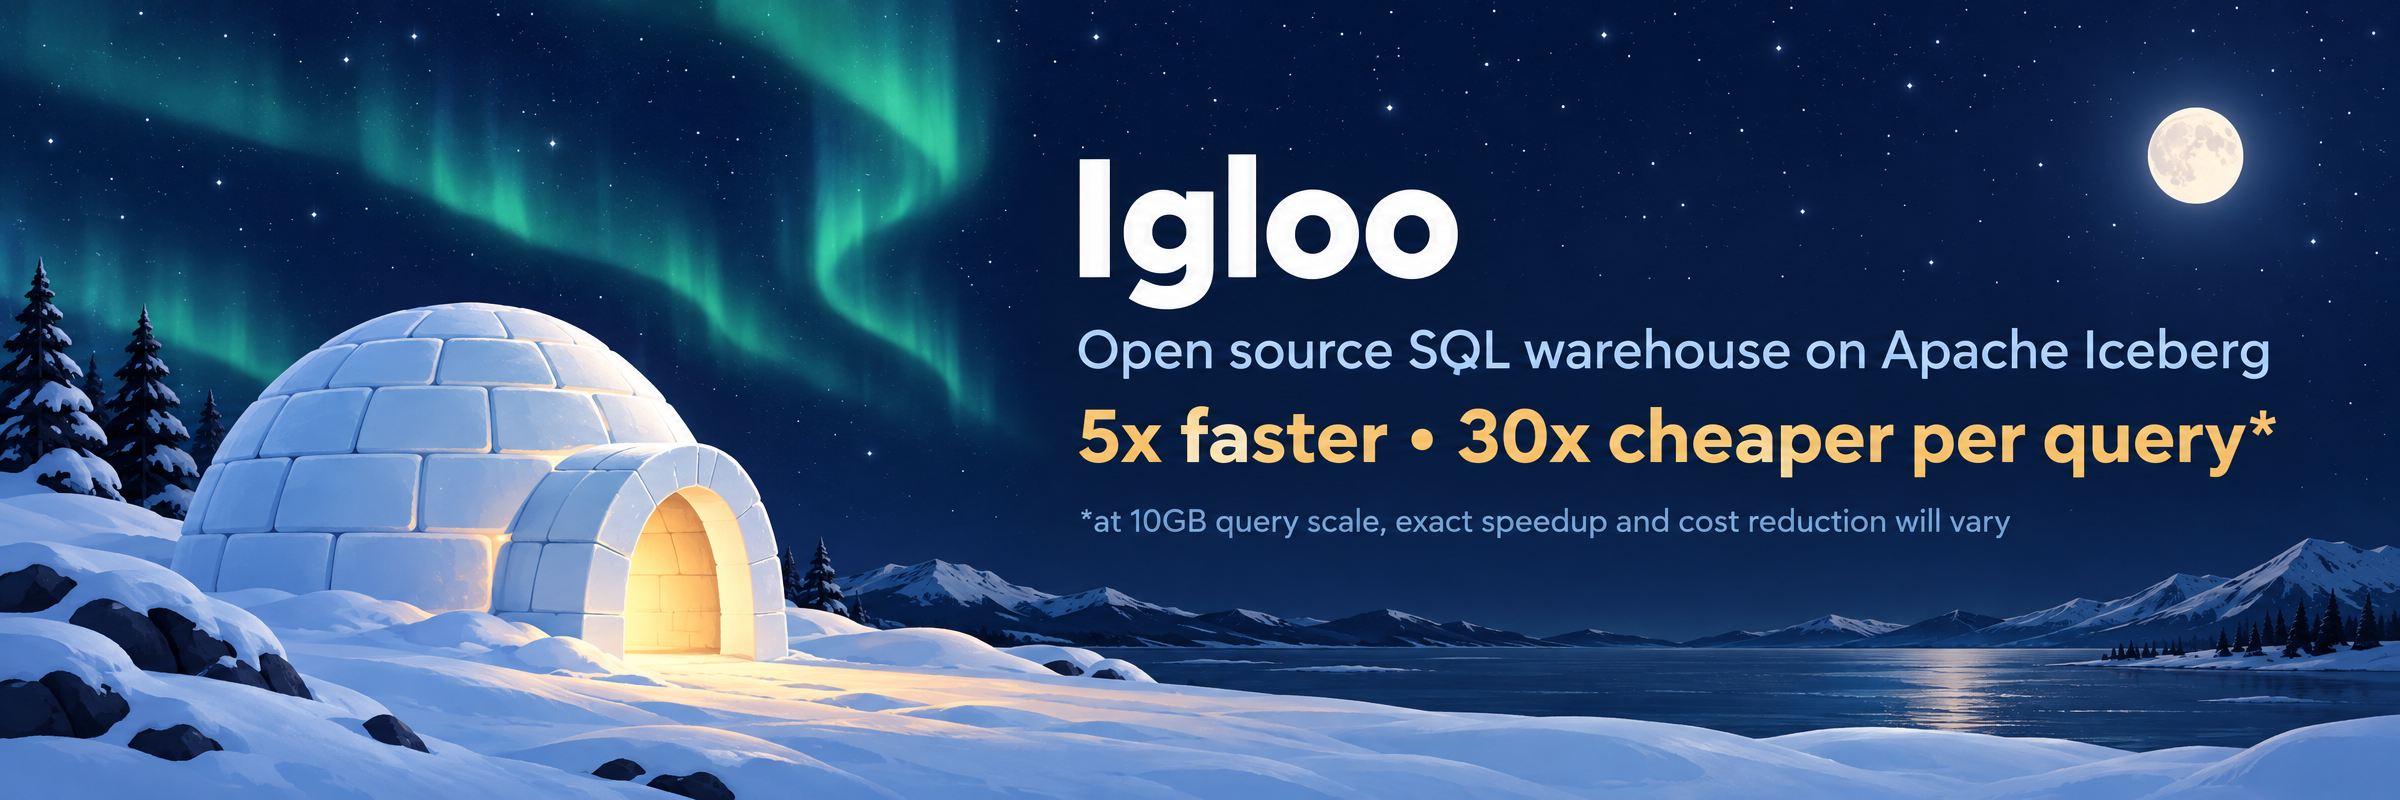
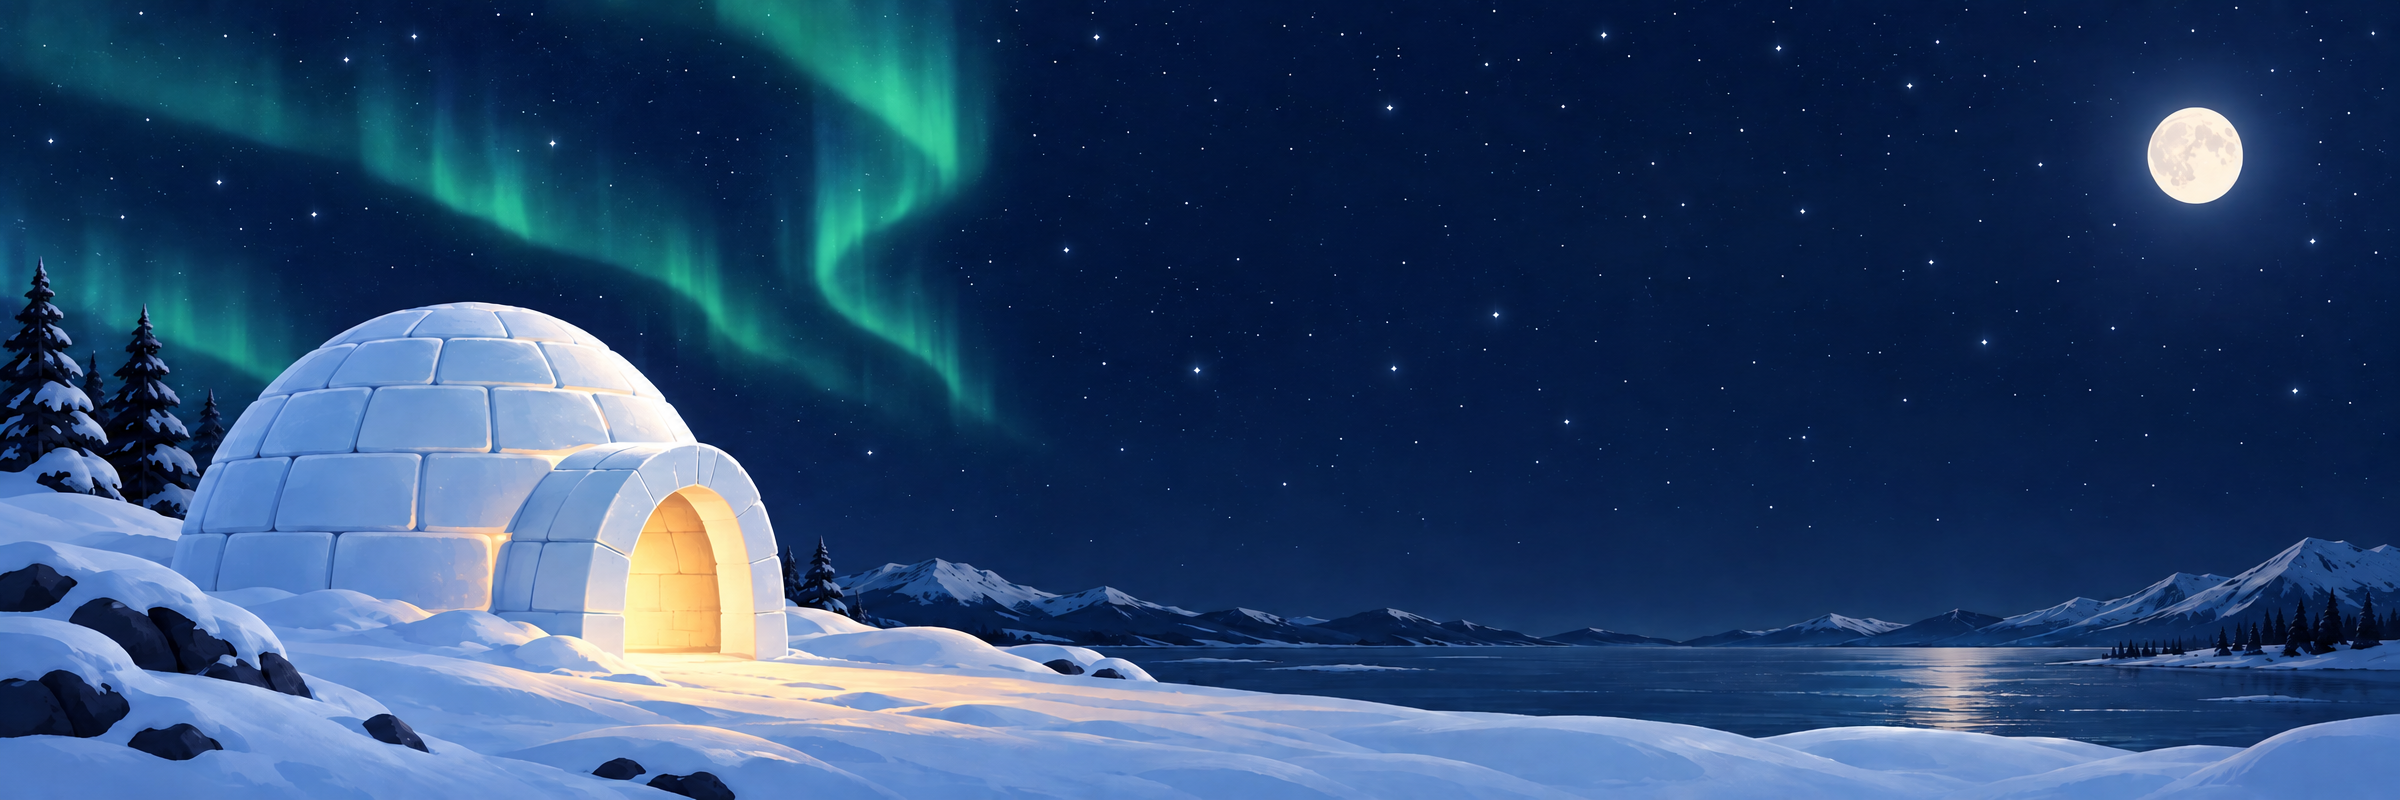
Lead the README with the 100 GB results, and show AI and the migration report
The headline is the scale factor 100 runs the website uses: at least 9
times lower cost per run than every Snowflake and Databricks size tested,
and a 64-core machine 4.8 times faster than a Snowflake Medium (Gen1) at
25 times lower cost. The banners lose their drawn-in claim (5x faster,
30x cheaper, from the 10 GB runs) and are the website's scenes without
text.

The feature list adds AI and forecasting in SQL and the migration report,
and calls Igloo efficient, not cheap. Snowflake and Databricks are named
where the README compares with them, migrates from them or connects to
them, not where it lists engines or likens a feature. The screenshots'
captions describe them without the ad terms. The limits no longer say
Snowflake connections are missing: only BigQuery is.

diff --git a/README.md b/README.md
@@ -1,7 +1,7 @@
 <p align="center">
   <picture>
     <source media="(prefers-color-scheme: dark)" srcset="docs/assets/banner-dark.png">
-    <img alt="Igloo: open source SQL warehouse on Apache Iceberg. 5x faster, 30x cheaper per query (at 10GB query scale; exact speedup and cost reduction will vary)." src="docs/assets/banner-light.png" width="100%">
+    <img alt="An igloo with a lit doorway in the snow." src="docs/assets/banner-light.png" width="100%">
   </picture>
 </p>
 
@@ -10,15 +10,13 @@
 Igloo is an open-source SQL data warehouse that runs in your own cloud
 account or on your own hardware.
 
-On TPC-H at scale factor 10 (10 GB) with tables in Amazon S3, Igloo on one
-16-core machine ran the 22 queries 4.3 to 6.8 times faster than a Snowflake
-X-Small (Gen1 or Gen2) or Databricks SQL Serverless 2X-Small warehouse, and
-26 to 35 times cheaper per query at list prices. The margins vary with scale
-and size: at scale factor 100 the same machine was 2.2 to 3.2 times faster
-than those warehouses and 10 to 16 times cheaper, and a 64-core machine was
-2.4 to 3.2 times faster than their X-Large sizes and 59 to 69 times cheaper.
-See the [benchmark](bench/README.md) for the method, every result and its
-caveats.
+On TPC-H at scale factor 100 (100 GB), with tables in Amazon S3 and list
+prices, Igloo costs at least 9 times less per run than every Snowflake and
+Databricks warehouse size tested, X-Small to X-Large. A 64-core machine ran
+the 22 queries 4.8 times faster than a Snowflake Medium (Gen1) warehouse at
+25 times lower cost, and 2.4 to 3.2 times faster than the X-Large sizes at
+59 to 69 times lower cost. See the [benchmark](bench/README.md) for the
+method, every result and its caveats.
 
 - **Postgres-compatible.** Clients connect over the PostgreSQL wire protocol,
   so `psql`, JDBC, psycopg, pgx, dbt, BI tools and notebooks work without an
@@ -32,10 +30,17 @@ caveats.
   store), with no proprietary storage to migrate out of. Spark, Trino and
   PyIceberg read and write them through Igloo's
   [Iceberg REST catalog](docs/external-engines.md), under Igloo's users and
-  grants; Databricks and Snowflake connect the same way.
-- **Fast on one machine, cheap to run.** Queries run on an embedded
-  [DuckDB](https://duckdb.org/). Most analytical workloads fit on a single
-  node; you pay for your own VMs and storage, nothing else.
+  grants.
+- **Efficient by design.** Queries run on an embedded
+  [DuckDB](https://duckdb.org/), and most analytical workloads fit on one
+  machine. You pay for your own machines and storage, with no credits to buy.
+- **AI and forecasting in SQL.** [Forecasts](docs/ml-functions.md#foundation-models)
+  on Amazon's Chronos and Google's TimesFM run inside Igloo, with no model
+  to train and no data leaving, and [AI functions](docs/ai-functions.md)
+  call the model provider you choose, priced and capped before they run.
+- **Know what runs before you move.** A [migration report](docs/migrating.md)
+  replays your Snowflake or Databricks query history on Igloo and shows what
+  runs, whether the answers match, and what it would cost.
 - **Runs anywhere.** Docker Compose for one machine, a Helm chart for any
   Kubernetes cluster, and OpenTofu modules that stand up the whole stack on
   AWS, Google Cloud or Azure.
@@ -43,14 +48,14 @@ caveats.
 <p align="center">
   <picture>
     <source media="(prefers-color-scheme: dark)" srcset="docs/assets/screenshots/console-worksheet-dark.png">
-    <img alt="Igloo's web console: a worksheet running a reach, frequency and spend query by advertiser over 21.9 million ad impressions, with its results below." src="docs/assets/screenshots/console-worksheet.png" width="100%">
+    <img alt="Igloo's web console: a worksheet running an aggregate query over 21.9 million rows, with its results below." src="docs/assets/screenshots/console-worksheet.png" width="100%">
   </picture>
 </p>
 
 <table>
   <tr>
-    <td width="50%"><img alt="A Metabase dashboard on Igloo: impressions, spend, daily delivery, reach and frequency by campaign, top advertisers and click-through rate by channel." src="docs/assets/screenshots/metabase-dashboard.png"></td>
-    <td width="50%"><img alt="A Jupyter notebook on Igloo: a reach curve merged from stored HLL sketches and a frequency distribution pulled over Arrow Flight SQL, with their charts." src="docs/assets/screenshots/notebook.png"></td>
+    <td width="50%"><img alt="A Metabase dashboard on Igloo: totals, a daily time series, a top-ten table and rates by channel." src="docs/assets/screenshots/metabase-dashboard.png"></td>
+    <td width="50%"><img alt="A Jupyter notebook on Igloo: a distinct-count curve merged from stored HLL sketches and a distribution pulled over Arrow Flight SQL, with their charts." src="docs/assets/screenshots/notebook.png"></td>
   </tr>
   <tr>
     <td align="center"><sub>Metabase through the PostgreSQL driver</sub></td>
@@ -58,8 +63,8 @@ caveats.
   </tr>
 </table>
 
-<sub>Screenshots use synthetic ad-impression data from
-<code>deploy/single-vm/sql/load-media.sql</code>; the advertisers are
+<sub>Screenshots use synthetic data from
+<code>deploy/single-vm/sql/load-media.sql</code>; the companies in it are
 invented.</sub>
 
 Licensed under [Apache 2.0](LICENSE).
@@ -117,8 +122,7 @@ the official TPC-H answers.
 - **Iceberg tables** with `CREATE [OR REPLACE] TABLE`, `CREATE TABLE AS`,
   `INSERT`, `UPDATE`, `DELETE`, `MERGE`, `DROP`, schemas, views, comments,
   and time travel (`SELECT * FROM t AT (TIMESTAMP => TIMESTAMP '2026-10-01 00:00')`).
-- **[Zero-copy clones](docs/sql.md#clones)** of tables and schemas, as in
-  Snowflake: a full copy of production to develop and test against, made in
+- **[Zero-copy clones](docs/sql.md#clones)** of tables and schemas: a full copy of production to develop and test against, made in
   seconds without copying data, with the source's policies; and Iceberg
   [branches and tags](docs/sql.md#branches-and-tags) of tables.
 
@@ -149,8 +153,8 @@ the official TPC-H answers.
   CREATE USER dbt_prod TYPE SERVICE ROLE none;
   CREATE TOKEN ci FOR USER dbt_prod EXPIRES '90d';   -- shown once, stored hashed
   ```
-- **[Row access and masking policies, and tags](docs/security-policies.md)**,
-  as in Snowflake: show each team only its clients' rows, and mask emails,
+- **[Row access and masking policies, and tags](docs/security-policies.md)**:
+  show each team only its clients' rows, and mask emails,
   device IDs and other identifiers for everyone not allowed to see them,
   in every statement, the web console included.
 
@@ -166,8 +170,8 @@ the official TPC-H answers.
   ALTER TABLE marts.impressions ALTER COLUMN email SET TAG pii = 'email';
   ```
 - **[Delta Sharing](docs/sharing.md)**, both ways: share tables with clients
-  and partners, who read them with Databricks, Spark, pandas, Power BI or
-  Tableau through the open protocol, and query partners' shares as
+  and partners, who read them with Spark, pandas, Power BI or Tableau
+  through the open protocol, and query partners' shares as
   external tables, with grants as for any table.
 
   ```sql
@@ -264,8 +268,7 @@ the official TPC-H answers.
   store-radius reporting; DuckDB's approximate, statistical and time zone
   functions.
 - **[Other engines](docs/external-engines.md)** through an Iceberg REST
-  catalog on port 8181: Spark, Trino, PyIceberg, Databricks and Snowflake
-  sign in as Igloo users, Igloo's grants decide what they may read and change,
+  catalog on port 8181: Spark, Trino and PyIceberg sign in as Igloo users, Igloo's grants decide what they may read and change,
   their requests go to the query history, and they get storage credentials
   that last an hour and reach one table's files only.
 - **[Workload management](docs/workload-management.md)**: query tags
@@ -371,9 +374,8 @@ Connector/C, the MySQL client library, in the `mysql` extension.
   backups, table maintenance, upgrades, troubleshooting
 - [Scale to zero](docs/scale-to-zero.md): stop compute when idle and start it
   on the next connection
-- [Other engines](docs/external-engines.md): Spark, Trino, PyIceberg,
-  Databricks and Snowflake on Igloo's tables, through its Iceberg REST
-  catalog
+- [Other engines](docs/external-engines.md): Spark, Trino and PyIceberg on
+  Igloo's tables, through its Iceberg REST catalog
 - [Distributed execution](docs/distributed-execution.md): queries larger than
   one machine, run in parts on workers
 - [SQL and clients](docs/sql.md): the SQL dialect, Iceberg features, type
@@ -392,8 +394,12 @@ Connector/C, the MySQL client library, in the `mysql` extension.
   reach
 - [Media analytics](docs/media-analytics.md): reach and frequency with
   sketches, geospatial reporting, approximate and statistical functions
-- [ML functions](docs/ml-functions.md): models trained and scored in SQL,
-  with Snowflake's `SNOWFLAKE.ML` classes
+- [ML functions](docs/ml-functions.md): forecasting, anomaly detection,
+  classification and other models, trained and scored in SQL
+- [AI functions](docs/ai-functions.md): completion, classification,
+  extraction and decision models in SQL, through your own model provider
+- [Model pack](docs/models.md): the open-weight forecasting models Igloo
+  runs itself
 - [Workload management](docs/workload-management.md): query tags, usage and
   cost per client, role limits, compute pools
 - [Delta Sharing](docs/sharing.md): sharing tables with outside recipients,
@@ -447,8 +453,8 @@ Connector/C, the MySQL client library, in the `mysql` extension.
   access to the files ([details](docs/external-engines.md#storage-credentials)).
 - **Connections attach at startup.** A new connection to another database
   is attached when each replica next restarts; changes to its credentials
-  and host apply at once. Connections are read-only, and BigQuery and
-  Snowflake are not supported yet ([details](docs/federation.md)).
+  and host apply at once. Connections are read-only, and BigQuery is not
+  supported yet ([details](docs/federation.md)).
 
 ## Repository layout
 
